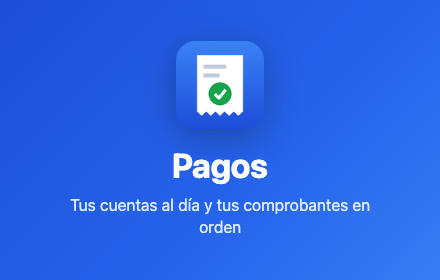
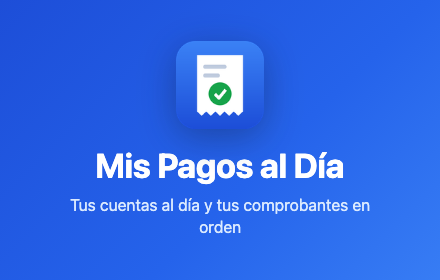
Rename to "Mis Pagos al Día" and clarify store listing (1.0.1)
The first submission was rejected under the store's spam and placement
policy. Make the metadata more descriptive:

- Rename the extension from the generic "Pagos" to "Mis Pagos al Día"
  in the manifest, panel, lock screen, context menu, privacy policy and README
- Rewrite the manifest summary to say what it does
- Rewrite the store description without all-caps headings or marketing copy
- Regenerate store images with the new name; screenshot 1 uses the current month
- Bump version to 1.0.1

Changed region(s): [[0.2068, 0.5429, 0.7977, 0.6571]]

diff --git a/sidepanel.html b/sidepanel.html
@@ -2,7 +2,7 @@
 <html lang="es">
 <head>
   <meta charset="utf-8">
-  <title>Pagos</title>
+  <title>Mis Pagos al Día</title>
   <link rel="stylesheet" href="sidepanel.css">
   <link rel="stylesheet" href="lock.css">
 </head>
@@ -13,7 +13,7 @@
   <!-- Main view: lists, then receipt button (shown once unlocked) -->
   <div id="view-main" hidden>
     <header class="topbar">
-      <h1>Pagos</h1>
+      <h1>Mis Pagos al Día</h1>
       <button type="button" id="summary-btn" class="gear" title="Resumen de pagos" aria-label="Resumen de pagos"></button>
       <button type="button" id="general-btn" class="gear" title="Configuración general" aria-label="Configuración general"></button>
     </header>
@@ -53,7 +53,7 @@
         <div id="receipt-amount"></div>
         <div id="current-fields"></div>
         <div id="capture-help" class="notice" hidden>
-          <span>Chrome bloqueó la captura desde el panel. Usa <strong>clic derecho → Guardar comprobante (Pagos)</strong>, el atajo <kbd>Alt</kbd>+<kbd>Shift</kbd>+<kbd>P</kbd>, o actívala en la configuración del sitio.</span>
+          <span>Chrome bloqueó la captura desde el panel. Usa <strong>clic derecho → Guardar comprobante (Mis Pagos al Día)</strong>, el atajo <kbd>Alt</kbd>+<kbd>Shift</kbd>+<kbd>P</kbd>, o actívala en la configuración del sitio.</span>
           <button type="button" id="capture-settings-btn" class="secondary">Abrir configuración</button>
         </div>
       </div>

diff --git a/store/marketing/shot-1.html b/store/marketing/shot-1.html
@@ -1,5 +1,5 @@
 <!doctype html>
-<html lang="es"><head><meta charset="utf-8"><link rel="stylesheet" href="base.css"></head>
+<html lang="es"><head><meta charset="utf-8"><link rel="stylesheet" href="base.css"><script src="helpers.js"></script></head>
 <body>
   <div class="caption">
     <h1>Tus cuentas del mes, al día</h1>
@@ -15,7 +15,7 @@
             <div class="site-card">
               <h2>Pagar cuenta</h2>
               <p class="muted">Servicio de internet hogar · Cliente 88213-4</p>
-              <div class="site-row"><span>Periodo</span><b>Octubre</b></div>
+              <div class="site-row"><span>Periodo</span><b id="period"></b></div>
               <div class="site-row"><span>Vencimiento</span><b>Mañana</b></div>
               <div class="site-total"><span>Total a pagar</span><span>$25.990</span></div>
               <div class="site-btn" style="background:#7c3aed">Pagar ahora</div>
@@ -24,9 +24,10 @@
         </div>
       </div>
       <div class="sidepanel">
-        <div class="sidepanel-head"><img src="../icons/icon16.png" alt="">Pagos</div>
+        <div class="sidepanel-head"><img src="../icons/icon16.png" alt="">Mis Pagos al Día</div>
         <iframe src="../sidepanel.html?tab=https://fibra-ejemplo.cl/mi-cuenta/pagar"></iframe>
       </div>
     </div>
   </div>
+  <script>document.getElementById('period').textContent = MONTHS[NOW.getMonth()];</script>
 </body></html>

diff --git a/docs/privacidad.html b/docs/privacidad.html
@@ -3,7 +3,7 @@
 <head>
   <meta charset="utf-8">
   <meta name="viewport" content="width=device-width, initial-scale=1">
-  <title>Política de privacidad · Pagos</title>
+  <title>Política de privacidad · Mis Pagos al Día</title>
   <style>
     :root { --bg: #fff; --text: #1f2328; --muted: #6b7280; --border: #e5e7eb; }
     @media (prefers-color-scheme: dark) {
@@ -22,10 +22,10 @@
 </head>
 <body>
   <main>
-    <h1>Política de privacidad de Pagos</h1>
-    <p class="muted">Extensión para Google Chrome · Última actualización: 30 de octubre de 2026</p>
+    <h1>Política de privacidad de Mis Pagos al Día</h1>
+    <p class="muted">Extensión para Google Chrome · Última actualización: 1 de noviembre de 2026</p>
 
-    <p>Pagos es una extensión para organizar pagos mensuales y únicos y guardar sus comprobantes. Está hecha para que tus datos se queden en tu computador.</p>
+    <p>Mis Pagos al Día es una extensión para organizar pagos mensuales y únicos y guardar sus comprobantes. Está hecha para que tus datos se queden en tu computador.</p>
 
     <h2>Qué datos maneja</h2>
     <ul>

diff --git a/lib/lock.js b/lib/lock.js
@@ -157,11 +157,11 @@ export async function requireUnlock(screen, onUnlock, { always = false } = {}) {
   const form = document.createElement('form');
   form.className = 'lock-form';
   const title = document.createElement('h1');
-  title.textContent = creating ? 'Crea una clave' : 'Pagos está bloqueado';
+  title.textContent = creating ? 'Crea una clave' : 'Mis Pagos al Día está bloqueado';
   const text = document.createElement('p');
   text.className = 'lock-text';
   text.textContent = creating
-    ? 'Se pedirá cada vez que abras Pagos. Guárdala bien: si la olvidas no se puede recuperar.'
+    ? 'Se pedirá cada vez que abras Mis Pagos al Día. Guárdala bien: si la olvidas no se puede recuperar.'
     : 'Ingresa tu clave para ver tus pagos.';
   const password = field('Clave', creating ? 'new-password' : 'current-password');
   const confirmation = creating ? field('Repite la clave', 'new-password') : null;

diff --git a/store/marketing/marquee.html b/store/marketing/marquee.html
@@ -11,12 +11,12 @@
 </style></head>
 <body>
   <div class="text">
-    <div class="brand"><img src="../icons/icon128.png" alt="">Pagos</div>
+    <div class="brand"><img src="../icons/icon128.png" alt="">Mis Pagos al Día</div>
     <h1>Tus cuentas al día.<br>Tus comprobantes en orden.</h1>
     <p>Checklist del mes, recordatorios y comprobantes guardados solos en tu carpeta.</p>
   </div>
   <div class="sidepanel">
-    <div class="sidepanel-head"><img src="../icons/icon16.png" alt="">Pagos</div>
+    <div class="sidepanel-head"><img src="../icons/icon16.png" alt="">Mis Pagos al Día</div>
     <iframe src="../sidepanel.html?tab=https://fibra-ejemplo.cl/mi-cuenta/pagar"></iframe>
   </div>
 </body></html>

diff --git a/background.js b/background.js
@@ -203,7 +203,7 @@ async function syncContextMenu() {
   if (single.length) {
     await create({
       id: MENU_ID,
-      title: 'Guardar comprobante (Pagos)',
+      title: 'Guardar comprobante (Mis Pagos al Día)',
       contexts: MENU_CONTEXTS,
       documentUrlPatterns: single.flatMap(matchPatterns),
     });
@@ -211,7 +211,7 @@ async function syncContextMenu() {
   if (multi.length) {
     await create({
       id: MENU_MULTI_ID,
-      title: 'Guardar comprobante (Pagos)',
+      title: 'Guardar comprobante (Mis Pagos al Día)',
       contexts: MENU_CONTEXTS,
       documentUrlPatterns: multi.flatMap(([d]) => matchPatterns(d)),
     });

diff --git a/store/marketing/shot-3.html b/store/marketing/shot-3.html
@@ -7,7 +7,7 @@
     <p>Resumen de 1, 3, 6 o 12 meses con gráficos y el detalle de cada pago, exportable a Excel.</p>
   </div>
   <div class="browser">
-    <div class="toolbar"><div class="dots"><i></i><i></i><i></i></div><div class="url"><b>Pagos</b>&nbsp;· Resumen de pagos</div><img class="ext-icon" src="../icons/icon32.png" alt=""></div>
+    <div class="toolbar"><div class="dots"><i></i><i></i><i></i></div><div class="url"><b>Mis Pagos al Día</b>&nbsp;· Resumen de pagos</div><img class="ext-icon" src="../icons/icon32.png" alt=""></div>
     <iframe src="../summary.html?months=12"></iframe>
   </div>
 </body></html>

diff --git a/store/marketing/shot-4.html b/store/marketing/shot-4.html
@@ -11,11 +11,11 @@
   </div>
   <div class="panels">
     <div class="sidepanel">
-      <div class="sidepanel-head"><img src="../icons/icon16.png" alt="">Pagos</div>
+      <div class="sidepanel-head"><img src="../icons/icon16.png" alt="">Mis Pagos al Día</div>
       <iframe id="top" src="../sidepanel.html"></iframe>
     </div>
     <div class="sidepanel">
-      <div class="sidepanel-head"><img src="../icons/icon16.png" alt="">Pagos</div>
+      <div class="sidepanel-head"><img src="../icons/icon16.png" alt="">Mis Pagos al Día</div>
       <iframe id="bottom" src="../sidepanel.html"></iframe>
     </div>
   </div>

diff --git a/lib/storage.js b/lib/storage.js
@@ -285,7 +285,7 @@ export function backupProblem(data) {
   const ok = data && typeof data === 'object' && data.app === 'pagos' && Array.isArray(data.payments)
     && data.payments.every((p) => p && typeof p.id === 'string' && typeof p.domain === 'string'
       && (p.records == null || typeof p.records === 'object'));
-  return ok ? null : 'El archivo no es un respaldo de Pagos.';
+  return ok ? null : 'El archivo no es un respaldo de Mis Pagos al Día.';
 }
 
 // Same month in both: the current record wins, but a missing amount is taken from the backup.

diff --git a/store/marketing/shot-5.html b/store/marketing/shot-5.html
@@ -22,7 +22,7 @@
       <div class="point"><div class="icon">🚫</div><div><h2>Sin publicidad</h2><p>Ni rastreo, ni analítica.</p></div></div>
     </div>
     <div class="sidepanel">
-      <div class="sidepanel-head"><img src="../icons/icon16.png" alt="">Pagos</div>
+      <div class="sidepanel-head"><img src="../icons/icon16.png" alt="">Mis Pagos al Día</div>
       <iframe src="../sidepanel.html?locked"></iframe>
     </div>
   </div>

diff --git a/lib/files.js b/lib/files.js
@@ -153,7 +153,7 @@ export async function pickBackupFile(root) {
     const [handle] = await window.showOpenFilePicker({
       id: 'pagos-backup',
       startIn,
-      types: [{ description: 'Respaldo de Pagos', accept: { 'application/json': ['.json'] } }],
+      types: [{ description: 'Respaldo de Mis Pagos al Día', accept: { 'application/json': ['.json'] } }],
     });
     const file = await handle.getFile();
     try {

diff --git a/store/marketing/shot-2.html b/store/marketing/shot-2.html
@@ -25,7 +25,7 @@
         </div>
       </div>
       <div class="sidepanel">
-        <div class="sidepanel-head"><img src="../icons/icon16.png" alt="">Pagos</div>
+        <div class="sidepanel-head"><img src="../icons/icon16.png" alt="">Mis Pagos al Día</div>
         <iframe id="panel" src="../sidepanel.html?tab=https://electrica-ejemplo.cl/pagar/comprobante"></iframe>
       </div>
     </div>
